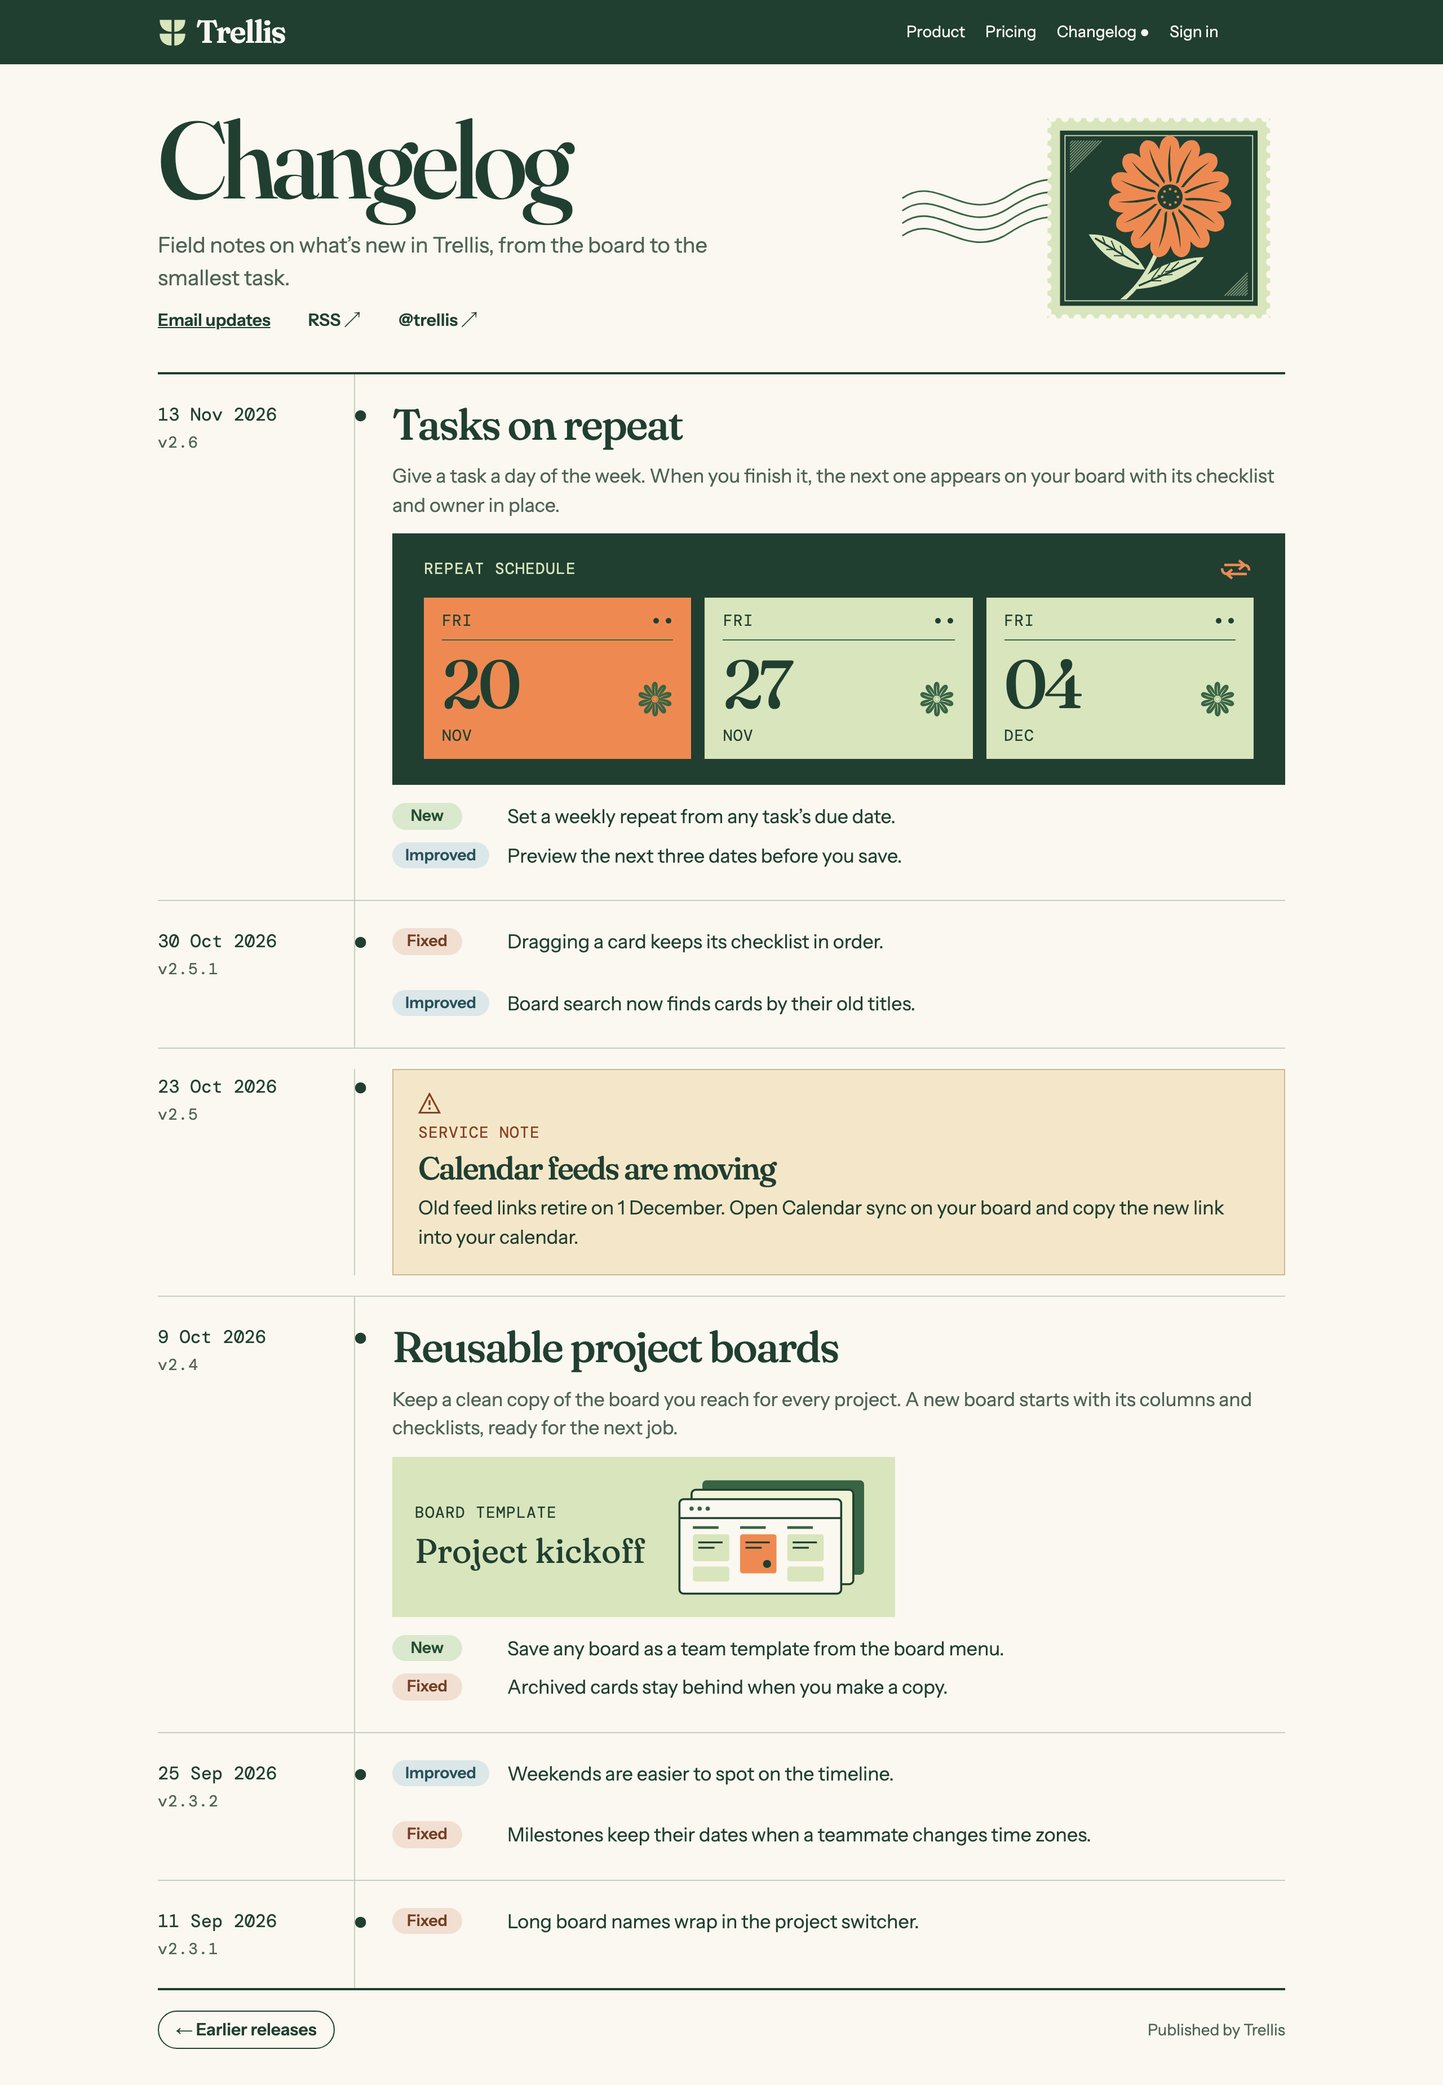
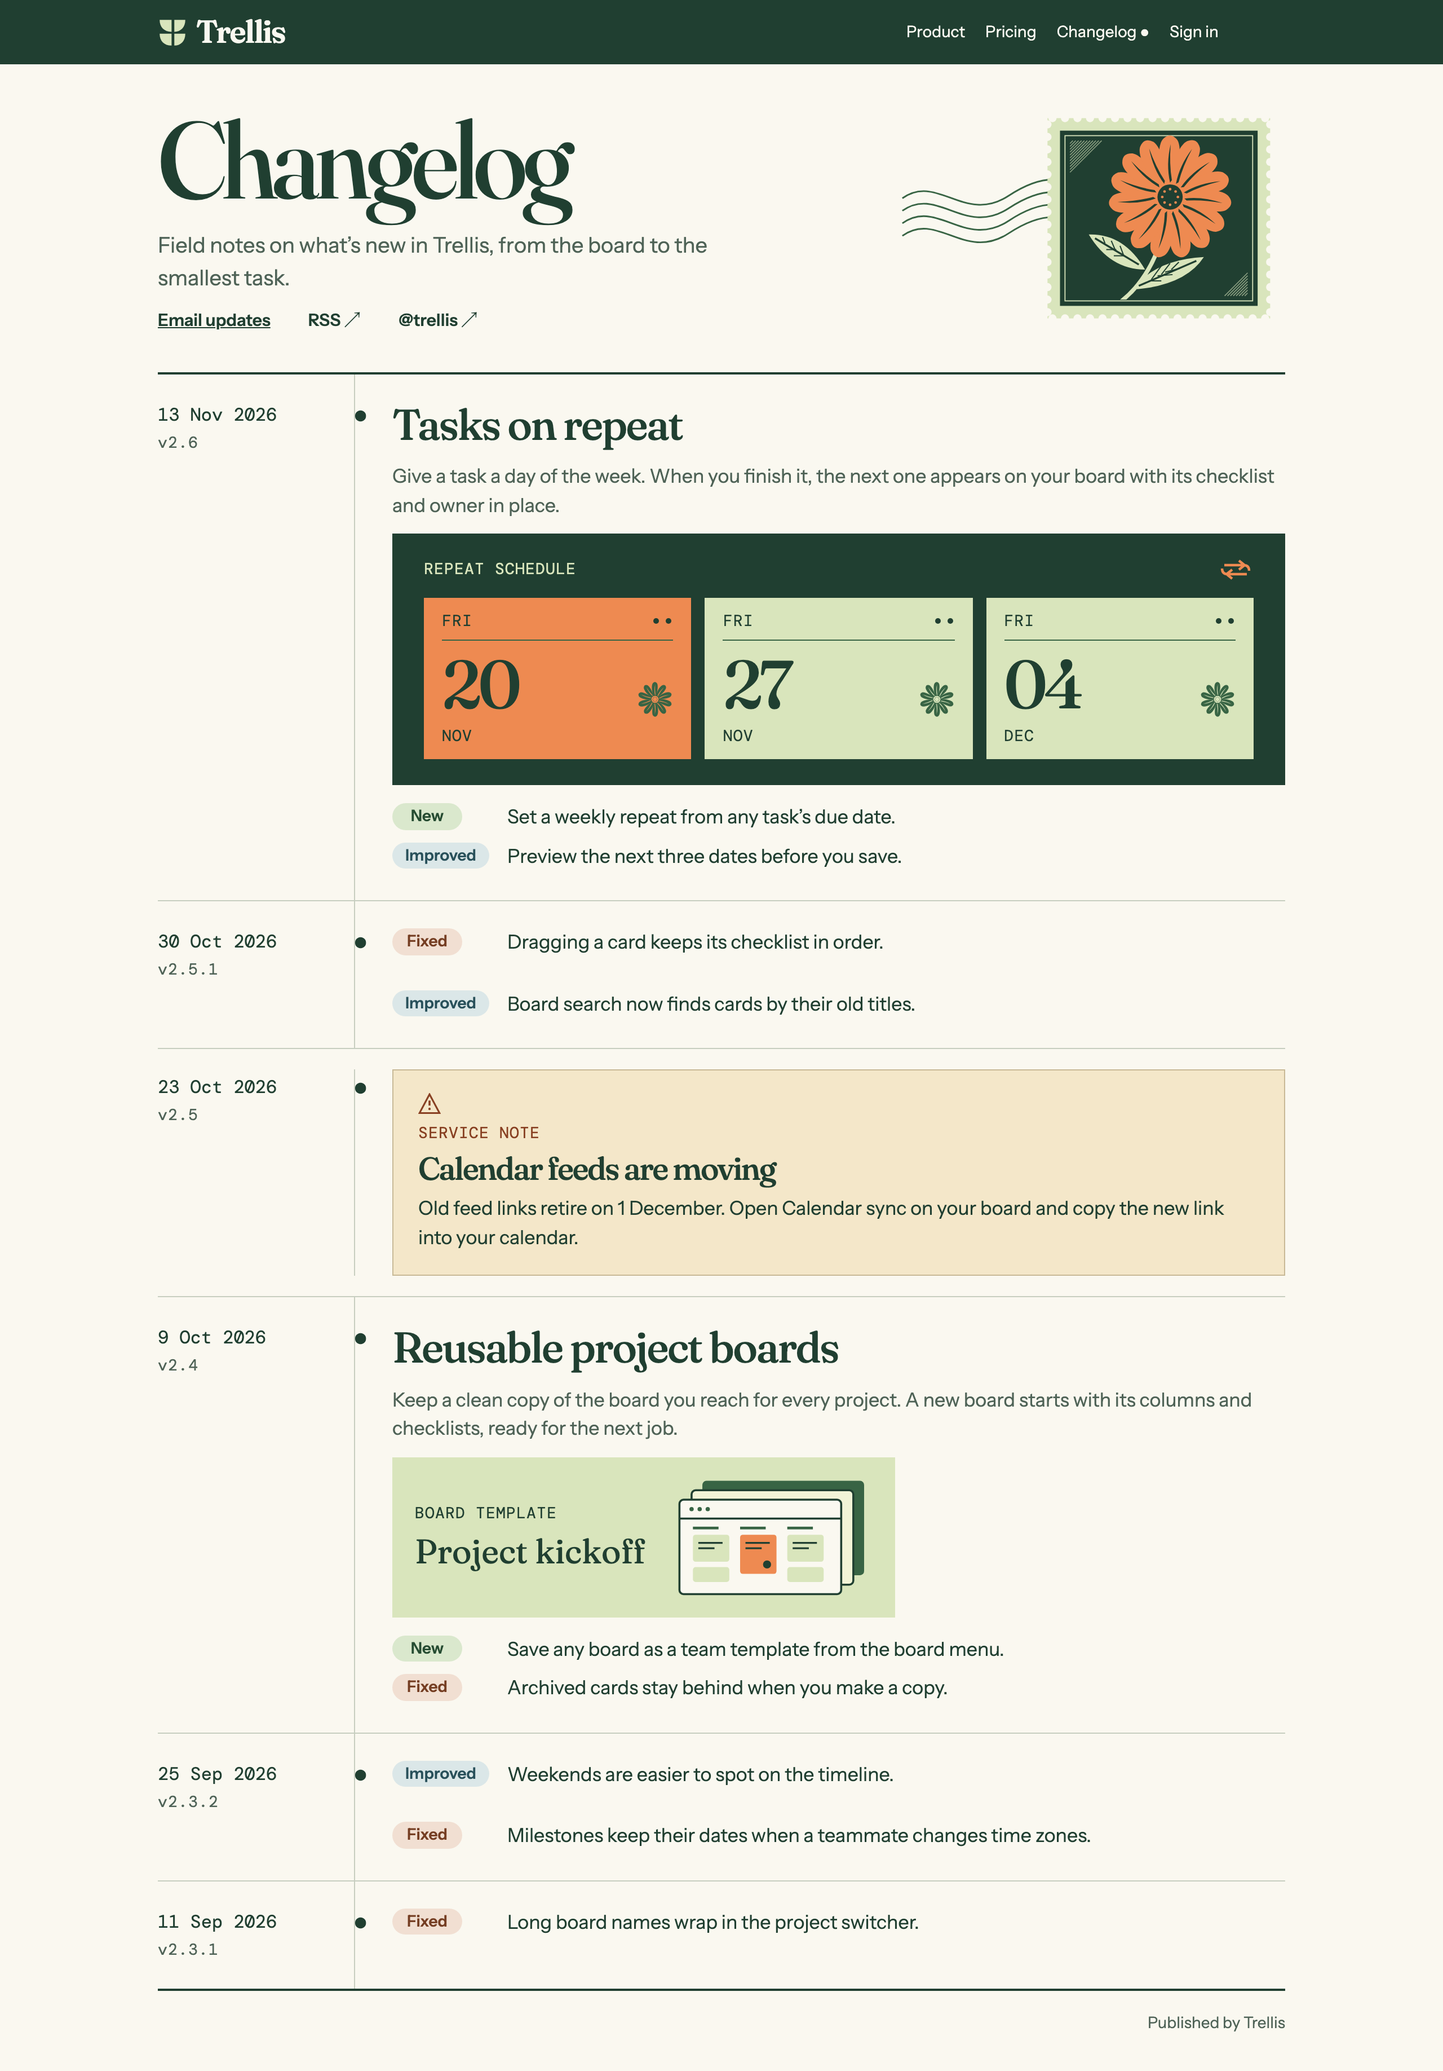
Review fixes: reusable for any agency/product, validation, publishing recipe first

diff --git a/src/trellis-changelog.tsx b/src/trellis-changelog.tsx
@@ -87,7 +87,7 @@ const theme = defineTheme({
 
 type Change = { kind: "New" | "Improved" | "Fixed"; text: string };
 type Screenshot = { src: string; width: number; height: number };
-export type Release = { date: string } & (
+export type Release = { date: string; id?: string } & (
   | {
       type: "feature";
       version: string;
@@ -109,6 +109,8 @@ export type ChangelogProps = {
   nav: { text: string; href: Href }[];
   intro: string;
   email: Href;
+  newsletterHost?: string;
+  archive?: Href;
   rss: Href;
   social: Href;
   handle: string;
@@ -138,7 +140,7 @@ export const example: ChangelogProps = {
   ],
   intro: "Field notes on what’s new in Trellis, from the board to the smallest task.",
   email: "https://trellis.example/notes/subscribe",
-  rss: "https://trellis.example/rss.xml",
+  rss: "https://trellis.example/changelog/rss.xml",
   social: "https://trellis.example/community",
   handle: "@trellis",
   releases: [
@@ -242,17 +244,19 @@ export function changelogUrl(site: string) {
 
 // Keep the original index for image field bindings, even when input is out of date order.
 export function releaseEntries(releases: Release[]) {
-  const used = new Map<string, number>();
+  const used = new Set<string>();
   return releases
-    .map((release, index) => ({ release, index }))
-    .sort((a, b) => b.release.date.localeCompare(a.release.date))
-    .map((entry) => {
-      const { release } = entry;
-      const base = release.version ? "v" + release.version.replaceAll(".", "-") : "notice-" + release.date;
-      const occurrence = (used.get(base) ?? 0) + 1;
-      used.set(base, occurrence);
-      return { ...entry, id: occurrence === 1 ? base : base + "-" + occurrence + "-entry" };
-    });
+    .map((release, index) => {
+      const id = release.id ?? (release.version
+        ? "v" + release.version.toLowerCase().replace(/[^a-z0-9]+/g, "-").replace(/-$/, "")
+        : "notice-" + release.date);
+      if (used.has(id)) {
+        throw new Error(`Duplicate release id "${id}" at releases[${index}]. Give one release a unique id.`);
+      }
+      used.add(id);
+      return { release, index, id };
+    })
+    .sort((a, b) => b.release.date.localeCompare(a.release.date));
 }
 
 function BrandMark() {
@@ -562,7 +566,7 @@ function ReleaseEntry({ entry, url, first }: { entry: Entry; url: string; first:
   const notice = release.type === "notice";
   const screenshot = release.type === "feature" ? release.screenshot : undefined;
   return (
-    <Section style={gutter}>
+    <Section id={id} style={gutter}>
       <Divider style={{ borderTop: first ? `2px solid ${INK}` : hairline }} />
       {release.type !== "small" && (
         <Row style={{ padding: notice ? [18, 0] : 0 }}>
@@ -580,7 +584,7 @@ function ReleaseEntry({ entry, url, first }: { entry: Entry; url: string; first:
                 <Text style={{ ...label, color: RUST }}>SERVICE NOTE</Text>
               </>
             )}
-            <Heading level={2} id={id} style={notice ? { fontSize: 28, mobile: { fontSize: 24 } } : undefined}>
+            <Heading level={2} style={notice ? { fontSize: 28, mobile: { fontSize: 24 } } : undefined}>
               {release.title}
             </Heading>
             <Text style={{ color: notice ? INK : QUIET, padding: screenshot ? [0, 0, 14] : 0 }}>
@@ -613,7 +617,7 @@ function ReleaseEntry({ entry, url, first }: { entry: Entry; url: string; first:
           const top = start ? 24 : i === 0 ? 16 : 9;
           const bottom = last ? 26 : 0;
           return (
-            <Row key={i} id={start ? id : undefined}>
+            <Row key={i}>
               <DateRail entry={start ? entry : undefined} url={url} top={top} bottom={bottom} />
               <Column
                 style={{
@@ -701,22 +705,24 @@ export default function TrellisChangelog(props: Partial<ChangelogProps> = {}) {
       <Section style={{ padding: [0, 20, 32] }}>
         <Divider style={{ borderTop: `2px solid ${INK}` }} />
         <Row style={{ padding: [18, 0, 0], alignItems: "center", gap: 10 }}>
-          <Column style={{ alignItems: "start" }}>
-            <Button
-              href={url + "/archive"}
-              style={{
-                color: INK,
-                backgroundColor: PAPER,
-                border: `1px solid ${INK}`,
-                borderRadius: 20,
-                fontSize: 15,
-                fontWeight: 600,
-                padding: [7, 15],
-              }}
-            >
-              ← Earlier releases
-            </Button>
-          </Column>
+          {props.archive && (
+            <Column style={{ alignItems: "start" }}>
+              <Button
+                href={props.archive}
+                style={{
+                  color: INK,
+                  backgroundColor: PAPER,
+                  border: `1px solid ${INK}`,
+                  borderRadius: 20,
+                  fontSize: 15,
+                  fontWeight: 600,
+                  padding: [7, 15],
+                }}
+              >
+                ← Earlier releases
+              </Button>
+            </Column>
+          )}
           <Column>
             <Text style={{ fontSize: 14, color: QUIET, textAlign: "right", mobile: { textAlign: "left" } }}>
               Published by {product}

diff --git a/templates/changelog.tsx b/templates/changelog.tsx
@@ -3,13 +3,22 @@ import { prop } from "@hyper-elements/react";
 import { field, template } from "@hyper-elements/react/template";
 import TrellisChangelog, { example, hrefOf, type ChangelogProps } from "../src/trellis-changelog";
 
+const number = "(?:0|[1-9][0-9]*)";
+const prerelease = `(?:${number}|[0-9]*[A-Za-z-][0-9A-Za-z-]*)`;
+const build = "[0-9A-Za-z-]+";
 const versionOptions = {
   label: "Version",
-  maxLength: 14,
-  pattern: "^\\d+\\.\\d+(\\.\\d+)?$",
-  guidance: "Use two or three numbers, such as 2.6 or 2.6.1. The page adds the v.",
+  maxLength: 128,
+  pattern: `^${number}\\.${number}(?:\\.${number}(?:-${prerelease}(?:\\.${prerelease})*)?(?:\\+${build}(?:\\.${build})*)?)?$`,
+  guidance: "Use 2.6 or a full semantic version, such as 2.7.0-beta.1+build.5. The page adds the v.",
 };
 const dated = {
+  id: prop.text({
+    label: "Permalink ID",
+    pattern: "^[a-z0-9]+(?:-[a-z0-9]+)*$",
+    maxLength: 160,
+    guidance: "Optional unique slug, such as board-library. Defaults to the version, or notice-YYYY-MM-DD for an unversioned notice. Keep a published ID stable.",
+  }),
   date: prop.date({
     label: "Publication date",
     required: true,
@@ -46,20 +55,22 @@ function checkDomains(values: ChangelogProps) {
     return url.hostname;
   }
   const allowed = new Set([host(values.site, "site"), host(values.social, "social"), host(values.rss, "rss")]);
+  if (values.newsletterHost) allowed.add(values.newsletterHost.toLowerCase());
   function check(link: ChangelogProps["email"], fieldName: string) {
     if (!allowed.has(host(link, fieldName))) {
       throw new Error(
-        `${fieldName} must link to a declared site, community or feed host (${[...allowed].join(", ")}).`,
+        `${fieldName} must link to a declared site, community, feed or newsletter host (${[...allowed].join(", ")}).`,
       );
     }
   }
   check(values.email, "email");
+  if (values.archive) check(values.archive, "archive");
   values.nav.forEach((item, i) => check(item.href, `nav[${i}].href`));
 }
 
 export default template({
   id: "trellis.Changelog",
-  version: "2.0.0",
+  version: "2.1.0",
   root: "Page",
   label: "Trellis changelog",
   guidance:
@@ -74,7 +85,7 @@ export default template({
       maxLength: 2048,
       pattern: "^https?://[^?#\\s]+$",
       guidance:
-        "The product home. The changelog lives at changelog under this URL. Navigation and signup may use the site, community or feed host.",
+        "The product home. Serve the changelog at changelog under this URL.",
     }),
     wordmark: prop.text({
       label: "Wordmark text",
@@ -99,6 +110,13 @@ export default template({
       guidance: "Introduce the product and what its release notes cover in one sentence.",
     }),
     email: prop.link({ label: "Email signup page", required: true }),
+    newsletterHost: prop.text({
+      label: "Newsletter host",
+      maxLength: 253,
+      pattern: "^(?:[A-Za-z0-9](?:[A-Za-z0-9-]{0,61}[A-Za-z0-9])?\\.)*[A-Za-z0-9](?:[A-Za-z0-9-]{0,61}[A-Za-z0-9])?$",
+      guidance: "If signup uses a separate host, declare its hostname here, such as letters.trellis.example.",
+    }),
+    archive: prop.link({ label: "Earlier releases URL", guidance: "Supply the URL of an existing archive to show the footer button." }),
     rss: prop.link({ label: "RSS feed", required: true }),
     social: prop.link({ label: "Community profile", required: true }),
     handle: prop.text({ label: "Profile handle", required: true, maxLength: 24, pattern: "^@[A-Za-z0-9_]+$" }),
@@ -158,6 +176,6 @@ export default template({
   example,
   render(values) {
     checkDomains(values);
-    return <TrellisChangelog {...values} />;
+    return TrellisChangelog(values);
   },
 });

diff --git a/README.md b/README.md
@@ -5,21 +5,22 @@ improved or fixed, and the big ones drawn.**
 
 ![The desktop and phone editions of Trellis, open to Tasks on repeat. Its three calendar leaves fall on consecutive Fridays.](docs/hero.png)
 
-Add a release by adding one object to a values file. The template checks it, puts it in date order and renders a static page. The same history supplies an RSS feed, so each subscriber gets the same release notes as a visitor.
+## Publish your changelog
 
-Trellis is a fictional planning tool for small teams. Its releases are invented.
-
-## Use it
-
-Install the locked dependencies and render the gallery example. The HTML and a plain-text edition land in `out/`. To reproduce the screenshots locally, install Chromium with `npx playwright install chromium` first.
+From a fresh clone, run these commands in the repository root. In the editor, set `values.site` to your product’s public base URL, update the navigation and follow links, and set `values.rss` to the full URL of your feed. Add a release by adding one object to `values.releases`.
 
 ```sh
 npm ci
-npm run build
-npx tsx scripts/rss.ts
+"${EDITOR:-vi}" designs/changelog.values.json
+npx hyper-elements render designs/changelog.values.json
+npm run rss
 ```
 
-The feed command reads `designs/changelog.values.json` and writes `out/rss.xml`. Serve the page at `changelog` under your `site` URL and the feed at the URL in `rss`. Clicking a date gives you the same permalink that subscribers receive.
+On your static host, place `out/designs/changelog.html` at `/changelog/index.html` and `out/rss.xml` at `/changelog/rss.xml` under the product’s base URL. Serve the index for requests to `/changelog`. Each linked date on the page and its RSS item point to the same release.
+
+Trellis is a fictional planning tool for small teams. The template checks and sorts its release notes so a team can publish the page and feed from one history.
+
+## Use the component
 
 To render the component in a build script, pass it a release list. Omitted props use the gallery example.
 
@@ -38,16 +39,7 @@ const { html } = await render(
 );
 ```
 
-For a data-only workflow, copy the shorter history and edit its `values`. Set `site`, `product`, the optional `wordmark`, navigation and follow links, then add your releases. The CLI can change individual fields too. These commands write `out/designs/team.html` and generate the matching `out/rss.xml`.
-
-```sh
-npx hyper-elements describe templates/changelog.tsx
-cp designs/library-preview.values.json designs/team.values.json
-npx hyper-elements design set designs/team.values.json 'intro=Changes to our team board library.'
-npx hyper-elements check designs/team.values.json
-npx hyper-elements render designs/team.values.json
-npx tsx scripts/rss.ts designs/team.values.json
-```
+To try the shorter Shelfmark history, render `designs/library-preview.values.json` with the same CLI and run `npm run rss -- designs/library-preview.values.json`. The feed command writes the selected history to `out/rss.xml`.
 
 ## One object, one release
 
@@ -80,15 +72,17 @@ kind: prop.choice(["New", "Improved", "Fixed"], {
 
 For a screenshot, set `screenshot` to `{ "src": "…", "width": 1200, "height": 800 }` using the image’s URL and actual pixel dimensions. Give it a short `screenshotAlt` description. The `field.image` accepts PNG, JPEG and WebP at least 800px wide, with a width-to-height ratio from 1 to 2.5. The framed image keeps its aspect ratio and takes precedence over a drawing.
 
-The version pattern accepts `2.6` and `2.6.1`. The rules check the page title, language, heading order, contrast, alternate text, link text and layout overflow. The template derives its allowed hosts from `site`, `rss` and `social` and checks navigation and signup destinations against them. The template and its gallery component are the two trusted modules listed in `package.json`.
+Each release can carry a permanent `id` made of lowercase letters, digits and single hyphens between words. Without it, version `2.6` gets `#v2-6`, and a versionless notice gets a fragment such as `#notice-2026-08-24`. Prereleases and build metadata work too, including `2.7.0-beta.1+build.5`. If two entries resolve to the same ID, the template asks for a unique one. To correct a published version or notice date, set `id` to its original fragment without the `#`.
+
+The rules check the page title, language, heading order, contrast, alternate text, link text and layout overflow. Navigation, signup and archive links must use the host of `site`, `social`, `rss`, or the optional `newsletterHost` (for example, `letters.shelfmark.example`). Set `archive` to an existing archive URL to show the “Earlier releases” button. The template and its gallery component are the two trusted modules listed in `package.json`.
 
 ## Edit it in Unlayer's builder
 
-Run `npm run design-json` and pass the contents of `out/trellis-changelog.design.json` to `editor.loadDesign(design)` in a web-mode Unlayer editor. Select a headline to edit it as a Heading. Dates, versions, summaries, colored labels and individual change sentences are Paragraph tools. The navigation is a Menu, the rules are Dividers, and the archive link is a Button. A supplied screenshot becomes an Image tool.
+Run `npm run design-json` and pass the contents of `out/trellis-changelog.design.json` to `editor.loadDesign(design)` in a web-mode Unlayer editor. Select a headline to edit it as a Heading. Dates, versions, summaries, colored labels and individual change sentences are Paragraph tools. The navigation is a Menu, the rules are Dividers, and a supplied archive link is a Button. A supplied screenshot becomes an Image tool.
 
 The sprig, stamp, notice icon and two feature illustrations export as five movable HTML blocks. The export writes theme values onto the individual tools. The page’s 870px breakpoint and inline-link hover treatments apply in the rendered page. Builder edits affect the exported design. Edit the values file to update both the page and RSS.
 
-While editing, the empty rail cells beside each change show the editor's "No content here" placeholder; they render empty.
+While editing, the empty rail cells beside each change show the editor's "No content here" placeholder. They render empty.
 
 ![Trellis changelog open in Unlayer’s web builder, with the release headline "Tasks on repeat" selected as an H2 Heading and its settings in the side panel.](docs/builder.jpg)
 
@@ -105,7 +99,7 @@ The full history covers six releases from 11 September to 13 November. The short
 | `npx hyper-elements render designs` | 2 designs, 0 errors, 0 warnings, 0 skipped |
 | `npx tsc --noEmit` | Exit 0, no output |
 | `npm run design-json` | 5 artwork blocks as HTML, 4 notes about styling |
-| `npx tsx scripts/rss.ts` | 6 RSS items, newest first |
+| `npm run rss` | 6 RSS items, newest first |
 
 ## Add it to the gallery
 
